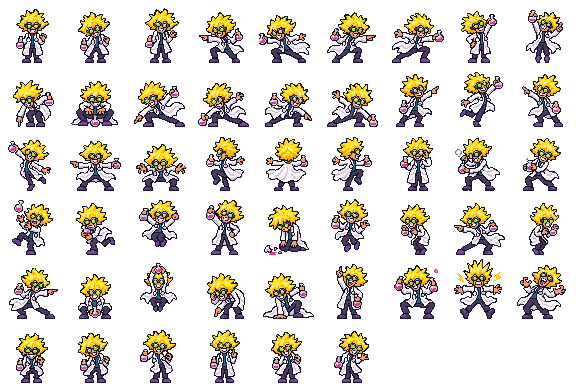
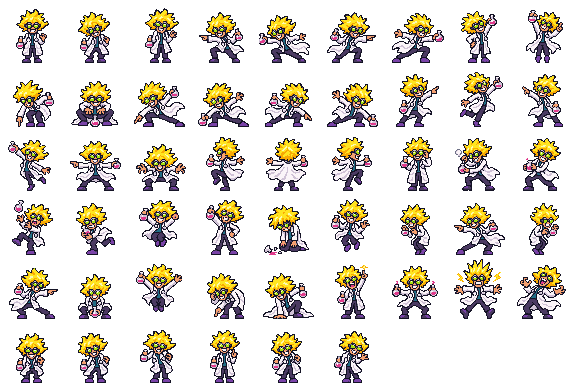
Add portraits for the Pear and Dr. Lemon and redo three Lemon frames
Claude-Session: https://claude.ai/code/session_01HtPH4yiA1RL6qEeafuyuW3

Changed region(s): [[0.5625, 0.6875, 0.6562, 0.8438], [0.6562, 0.6875, 0.7812, 0.8438], [0.2188, 0.6875, 0.3125, 0.8125]]

diff --git a/tools/build_characters.py b/tools/build_characters.py
@@ -44,9 +44,11 @@ The Pear (pear.png) and the Lemon (lemon.png) are rivals made the same way,
 from a design sheet instead of an original sprite. Their palettes
 (palette_pear.png, palette_lemon.png, 14 colours each) were picked by hand from
 their first sheets. All their sheets are 3x2; sheet d holds three frames and
-three spare poses that are not used. Pixel sizes passed to pixelize_sprites.py:
+three spare poses that are not used. lemon_j is a later sheet that replaces
+three of the Lemon's frames (38, 41 and 42). Pixel sizes passed to
+pixelize_sprites.py:
   pear   a 12.0  b 11.5   c 12.13  d 11.48  e 10.61  f 10.66  g 11.32  h 11.3   i 11.05
-  lemon  a 12.3  b 12.05  c 11.5   d 11.9   e 11.5   f 11.25  g 11.9   h 10.45  i 12.1
+  lemon  a 12.3  b 12.05  c 11.5   d 11.9   e 11.5   f 11.25  g 11.9   h 10.45  i 12.1  j 11.7
 
 The Pear is a b-boy in a pear-shaped beanie. He is taller than the others
 because of the beanie and its stalk (up to 59 pixels).
@@ -81,11 +83,14 @@ The Lemon is a mad scientist doctor who dances with a flask of pink liquid.
   27-28  stumble: the flask flies out of his hands, then he clutches it on one leg
   29-32  victory jump, a toast, defeat on his knees by the broken flask, hype hop
   33-36  left and right (alt): hunched scuttle, then a pointing lunge
-  37-38  up (alt): crouch over the flask, then a leap with the flask overhead
+  37-38  up (alt): crouch over the flask, then a leap with both arms up in a V
   39-40  down (alt): bent double pointing at the floor, then a palm slam on one knee
   41-44  showpieces: "eureka" finger with a spark, shaking two flasks, electric jolt, maniacal laugh
   45-50  idle dance: twitchy sway (flask jerked up on the left accent, finger up on the high beat)
   spares in lemon_d: 3 whirl seen from behind, 4 electric jolt, 5 fumbled flask
+  spares in lemon_j: 0 leap with a fist out, 1 star jump, 5 leap with legs apart
+  replaced and no longer used: lemon_g 5 (a leap that hid his hair behind his
+  arms), lemon_h 2 (its spark was lost in conversion), lemon_h 3
 """
 from pathlib import Path
 
@@ -144,6 +149,7 @@ def standard(prefix: str) -> dict[int, tuple[str, int]]:
 # Both were checked frame by frame: 11-12 point down-left on screen and 13-14 down-right.
 PEAR = standard("pear")
 LEMON = standard("lemon")
+LEMON |= {38: ("lemon_j", 2), 41: ("lemon_j", 3), 42: ("lemon_j", 4)}
 
 # Frames where the character is in the air: how many pixels the feet are off the floor.
 LIFT = {29: 8, 32: 3, 38: 7}
